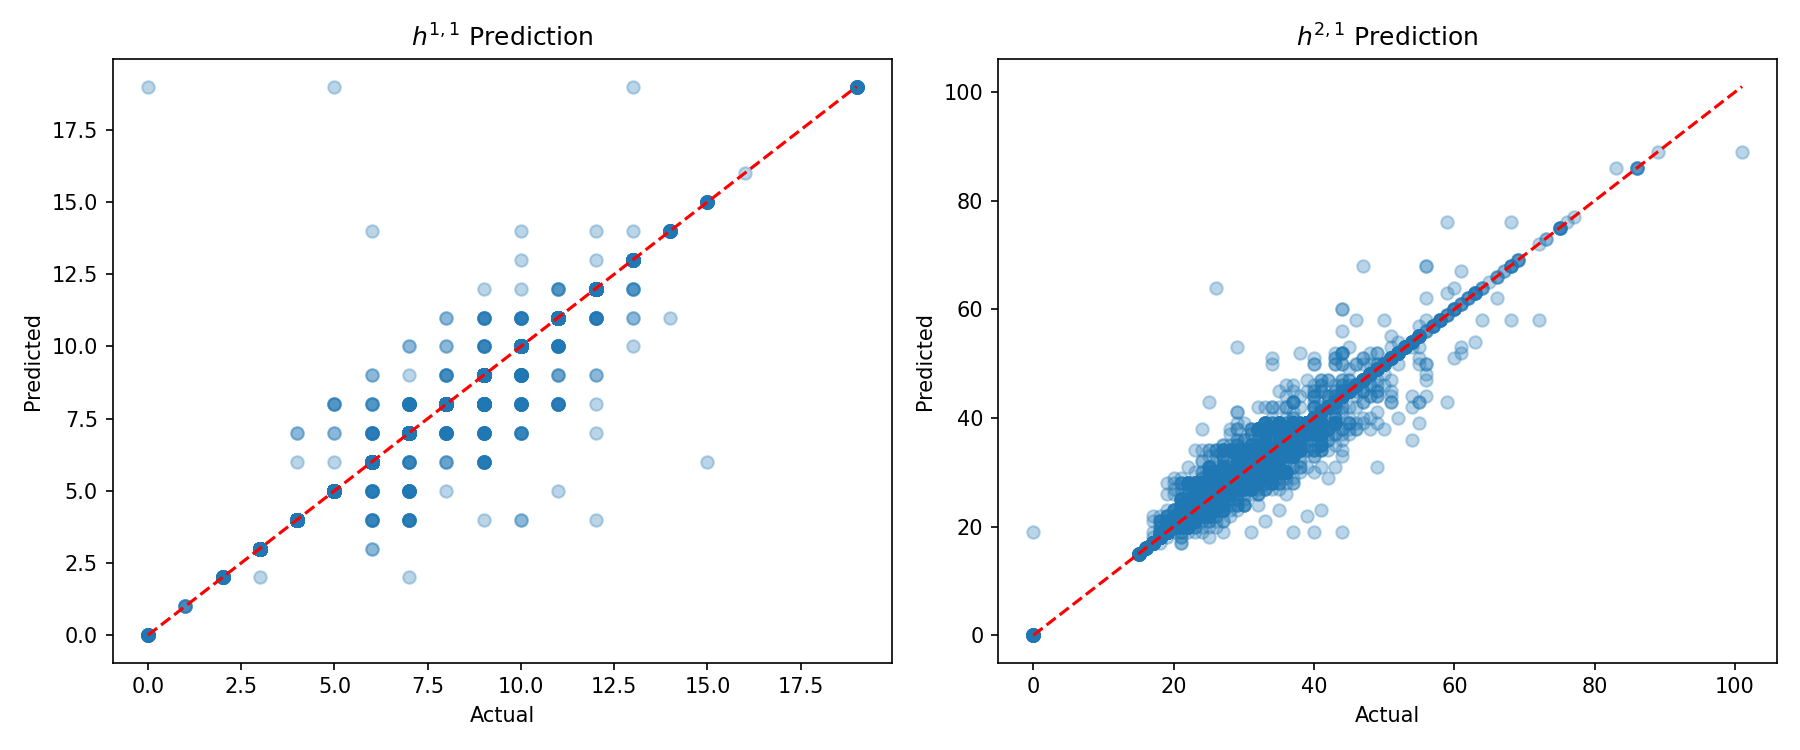
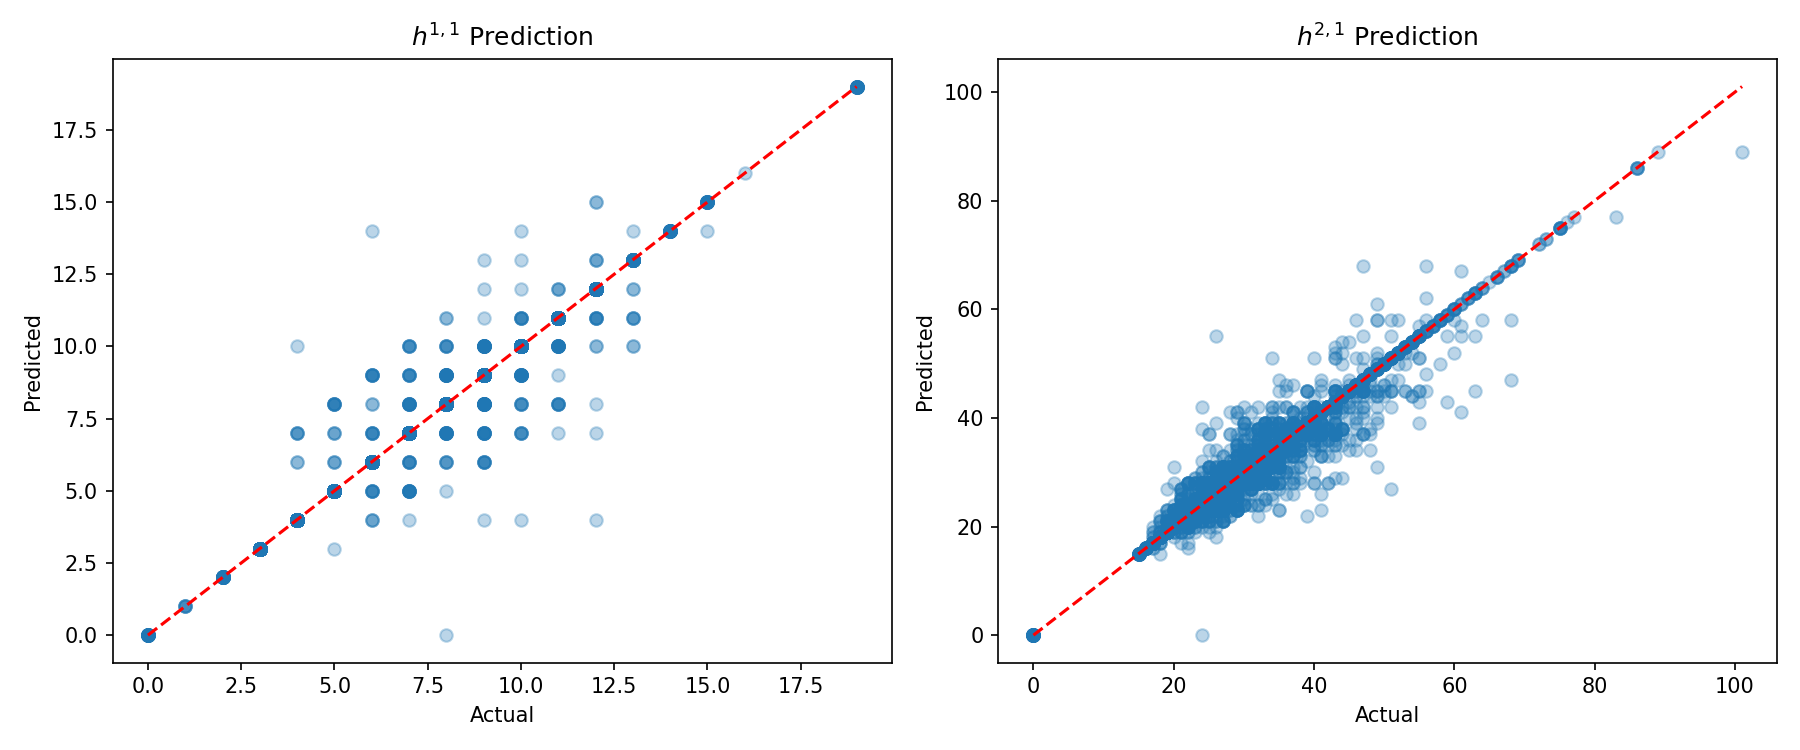
added lambda param to training

diff --git a/src/train_enhanced.py b/src/train_enhanced.py
@@ -22,6 +22,7 @@ from src.models.cnn_model import CICYClassifier
 BATCH_SIZE = 32
 EPOCHS = 50
 LR = 1e-3
+LAMBDA_H21 = 1.2
 TRAIN_SPLIT = 0.8
 SEED = 42
 
@@ -82,7 +83,8 @@ for epoch in range(EPOCHS):
         loss_h11 = criterion(out_h11, batch_y[:, 0])
         loss_h21 = criterion(out_h21, batch_y[:, 1])
 
-        loss = loss_h11 + loss_h21
+        # loss = loss_h11 + loss_h21
+        loss = loss_h11 + (LAMBDA_H21 * loss_h21)
         loss.backward()
         optimizer.step()
 

diff --git a/README.md b/README.md
@@ -92,11 +92,11 @@ The plots show scatter distributions of predicted vs. actual h^{1,1} and h^{2,1}
 
 ```
 Total manifolds evaluated : 7890
-h^{1,1} exact accuracy     : 96.22%
-h^{2,1} exact accuracy     : 75.87%
+h^{1,1} exact accuracy     : 96.67%
+h^{2,1} exact accuracy     : 76.51%
 ```
 
-The model achieves high accuracy on h^{1,1} prediction (96.22%) and demonstrates substantial learning on h^{2,1} (75.87%), indicating strong predictive capability for topological properties of CICY 3-folds.
+The model achieves high accuracy on h^{1,1} prediction (96.67%) and demonstrates substantial learning on h^{2,1} (76.51%), indicating strong predictive capability for topological properties of CICY 3-folds.
 
 ## Common issues
 
